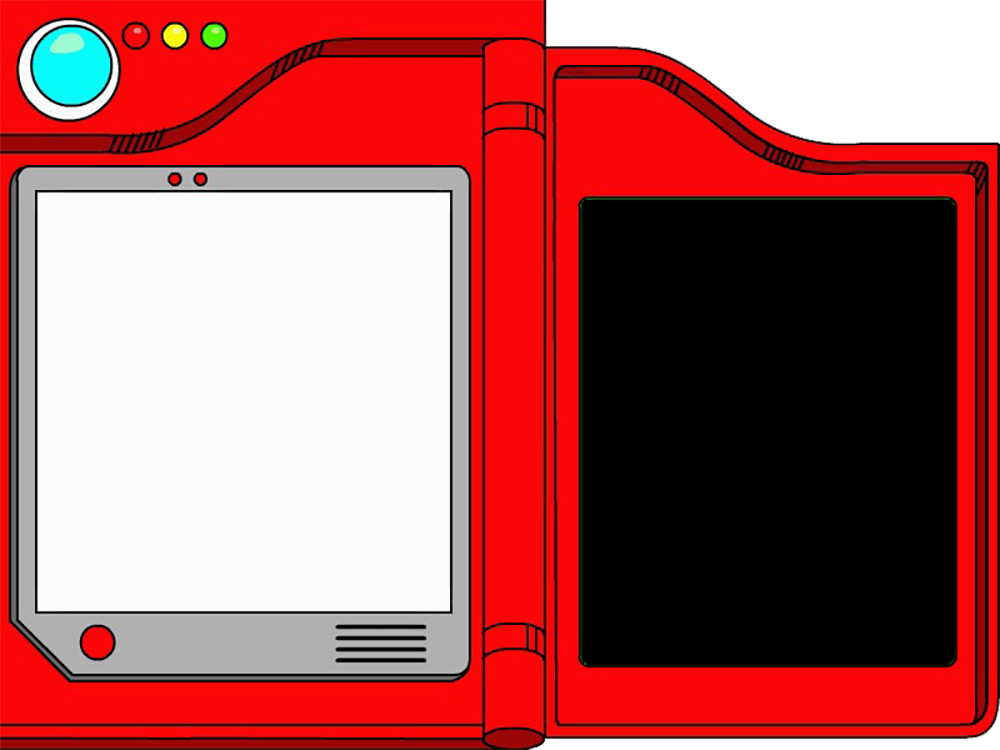
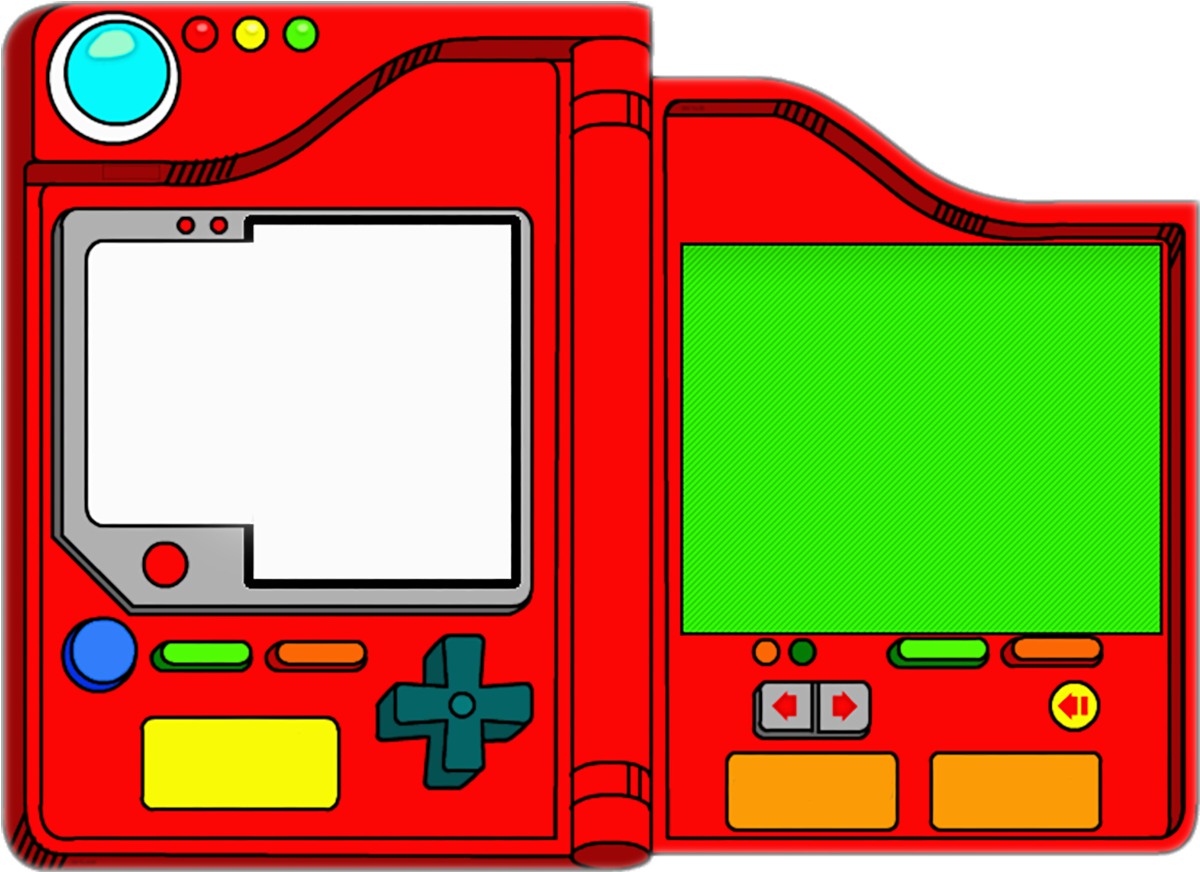
Add pokedex graphic

diff --git a/index.html b/index.html
@@ -9,22 +9,27 @@
 </head>
 
 <body>
-    <h1>Pokemon List</h1>
-    <ul id="pokemon-list"></ul>
-    <script>
-        // fetch pokemon from poke API
-        fetch("https://pokeapi.co/api/v2/pokemon?limit=10")
-            .then((response) => response.json())
-            .then((data) => {
-                const pokemonList = document.getElementById("pokemon-list");
-                data.results.forEach((pokemon) => {
-                    const li = document.createElement("li");
-                    li.innerText = pokemon.name;
-                    pokemonList.appendChild(li);
-                });
-            })
-            .catch((error) => console.error("Error fetching Pokémon:", error));
-    </script>
+    <div class="pokedex">
+        <div class="screen-left">
+            <h1>Pokemon List</h1>
+        </div>
+        <ul id="pokemon-list">
+        </ul>
+        <script>
+            // fetch pokemon from poke API
+            fetch("https://pokeapi.co/api/v2/pokemon?limit=10")
+                .then((response) => response.json())
+                .then((data) => {
+                    const pokemonList = document.getElementById("pokemon-list");
+                    data.results.forEach((pokemon) => {
+                        const li = document.createElement("li");
+                        li.innerText = pokemon.name;
+                        pokemonList.appendChild(li);
+                    });
+                })
+                .catch((error) => console.error("Error fetching Pokémon:", error));
+        </script>
+    </div>
 </body>
 
 </html>

diff --git a/style.css b/style.css
@@ -24,10 +24,39 @@
     font-display: swap;
 }
 
+
+/* Global Styles */
+
+* {
+    font-family: 'VCR OSD Mono', monospace !important;
+}
+
 h1 {
     font-family: 'Pokemon Solid', sans-serif !important;
 }
 
-* {
-    font-family: 'VCR OSD Mono', monospace !important;
+body {
+    width: 100%;
+    display: flex;
+    align-items: center;
+    justify-content: center;
+}
+
+.pokedex {
+    display: flex;
+    align-items: center;
+    justify-content: center;
+    flex-direction: row;
+    width: 80%;
+    max-width: 1000px;
+    min-height: 500px;
+    aspect-ratio: 5 / 4;
+    background-image: url('assets/pokedex.png');
+    background-position: center center;
+    background-size: 100% 100%;
+    background-repeat: no-repeat;
+}
+
+.screen-left {
+    width: 50%;
 }
